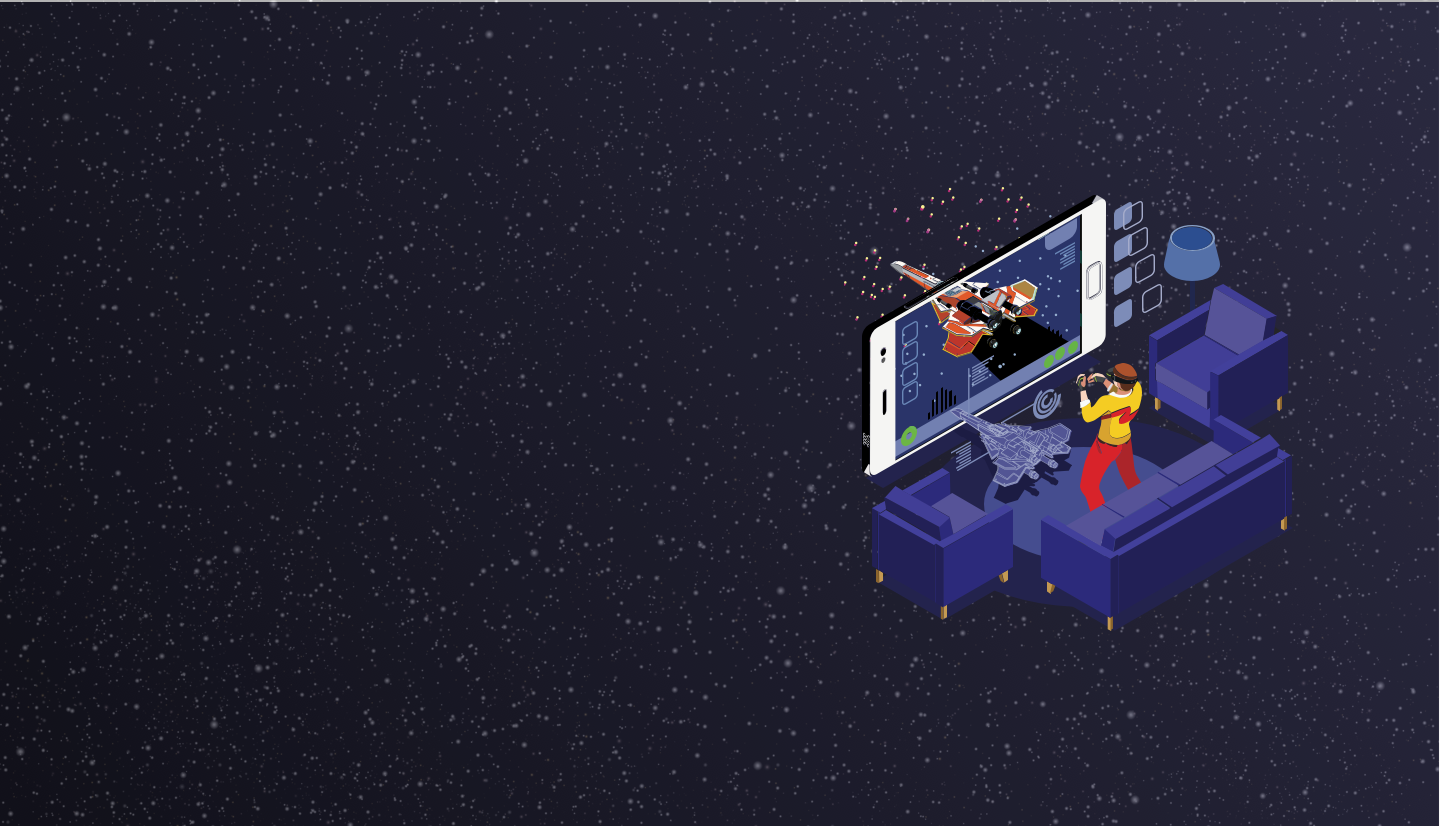
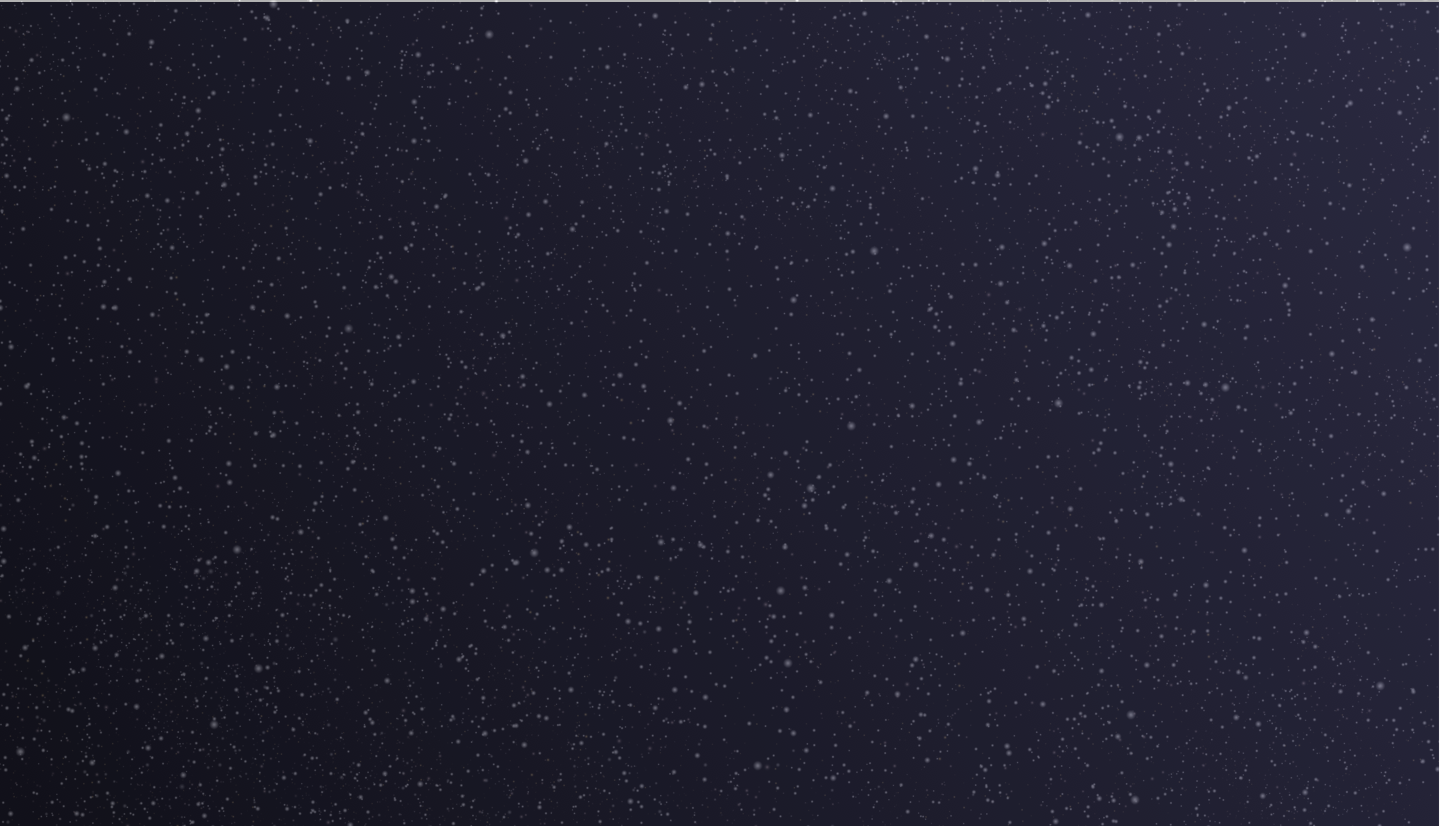
add new link and picture

Changed region(s): [[0.5938, 0.2421, 0.9062, 0.7567]]

diff --git a/ja/index.html b/ja/index.html
@@ -8,14 +8,15 @@
     <meta name="author" content="Cosmos Gaming Hub Team">
     <title>Cosmos Gaming Hub -The Decentralized Game Platform for The Next Generation-</title>
 
-		<!-- Global site tag (gtag.js) - Google Analytics -->
-    <script async src="https://www.googletagmanager.com/gtag/js?id=UA-143409531-1"></script>
-    <script>
-      window.dataLayer = window.dataLayer || [];
-      function gtag(){dataLayer.push(arguments);}
-      gtag('js', new Date());
-      gtag('config', 'UA-143409531-1');
-    </script>
+	<!-- Global site tag (gtag.js) - Google Analytics -->
+	<script async src="https://www.googletagmanager.com/gtag/js?id=UA-151138947-1"></script>
+	<script>
+		window.dataLayer = window.dataLayer || [];
+		function gtag(){dataLayer.push(arguments);}
+		gtag('js', new Date());
+
+		gtag('config', 'UA-151138947-1');
+	</script>
 
 
 	<link rel="shortcut icon" href="../img/favicon.png" type="image/x-icon">
@@ -77,7 +78,7 @@
             <a class="nav-link" href="https://whitepaper.cosmosgaminghub.com/ja" target=”_blank”><span class="no-wrap">ホワイトペーパー</span></a>
           </li>
 					<li class="nav-item">
-						<a class="nav-link" href="https://medium.com/mold-project"><span class="no-wrap">ブログ</span></a>
+						<a class="nav-link" href="https://medium.com/cosmosgaminghub"><span class="no-wrap">ブログ</span></a>
 					</li>
 					<li class="nav-item language contents">
           <ul class="nav">
@@ -109,12 +110,12 @@
 							<h1 class="animated fadeInLeft">Cosmos Gaming Hubは公平でセキュアな分散型ゲームプラットフォームです。</h1>
 							<p class="animated fadeInLeft">Cosmos Gaming Hubは、Tendermintを活用して作られるPoSベースのオリジナルブロックチェーンです。ゲーム開発者は、Cosmos Gaming Hub上でゲームを簡単に作成でき、ユーザーはデジタル資産の管理やそれらの自由で迅速な取引が可能になります。</p>
 							<a href="https://whitepaper.cosmosgaminghub.com/ja" class="btn btn-default animated fadeInLeft">ホワイトペーパー</a>
-              <a href="https://medium.com/mold-project" class="btn btn-default animated fadeInLeft">ブログ</a>
+              <a href="https://medium.com/cosmosgaminghub" class="btn btn-default animated fadeInLeft">ブログ</a>
 						</div>
 					</div>
 					<div class="col-md-6 d-none d-md-block d-lg-block">
-						<div class="hero-img animated fadeInUp tilt-img text-center">
-							<!--img src="../img/banner/2.png" alt=""-->
+						<div class="animated fadeInUp text-center">
+							<img src="../img/banner/2.png" alt="">
 						</div>
 					</div>
 				</div>
@@ -451,8 +452,8 @@
 			<div class="row">
 				<div class="col-md-12">
 					<ul class="social-media">
-						<li><a href="https://twitter.com/mold_games" target=”_blank”><i class="fa fa-twitter-square"></i></a></li>
-						<li><a href="https://medium.com/mold-project/japanese/home"><i class="fa fa-medium"></i></a></li>
+						<li><a href="https://twitter.com/cosmosgaminghub" target=”_blank”><i class="fa fa-twitter-square"></i></a></li>
+						<li><a href="https://medium.com/cosmosgaminghub/japanese/home"><i class="fa fa-medium"></i></a></li>
 						<li><a href="https://t.me/MOLD_GAMES_JP"><i class="fa fa-telegram"></i></a></li>
 						<li><a href="https://github.com/cosmos-gaminghub" target=”_blank”><i class="fa fa-github-square"></i></a></li>
 					</ul>

diff --git a/ch/index.html b/ch/index.html
@@ -8,14 +8,15 @@
     <meta name="author" content="Cosmos Gaming Hub Team">
     <title>Cosmos Gaming Hub -The Decentralized Game Platform for The Next Generation-</title>
 
-		<!-- Global site tag (gtag.js) - Google Analytics -->
-    <script async src="https://www.googletagmanager.com/gtag/js?id=UA-143409531-1"></script>
-    <script>
-      window.dataLayer = window.dataLayer || [];
-      function gtag(){dataLayer.push(arguments);}
-      gtag('js', new Date());
-      gtag('config', 'UA-143409531-1');
-    </script>
+	<!-- Global site tag (gtag.js) - Google Analytics -->
+	<script async src="https://www.googletagmanager.com/gtag/js?id=UA-151138947-1"></script>
+	<script>
+		window.dataLayer = window.dataLayer || [];
+		function gtag(){dataLayer.push(arguments);}
+		gtag('js', new Date());
+
+		gtag('config', 'UA-151138947-1');
+	</script>
 
 
 	<link rel="shortcut icon" href="../img/favicon.png" type="image/x-icon">
@@ -77,7 +78,7 @@
             <a class="nav-link" href="https://whitepaper.cosmosgaminghub.com/ch" target=”_blank”><span class="no-wrap">白皮书</span></a>
           </li>
 					<li class="nav-item">
-						<a class="nav-link" href="https://medium.com/mold-project"><span class="no-wrap">博客</span></a>
+						<a class="nav-link" href="https://medium.com/cosmosgaminghub"><span class="no-wrap">博客</span></a>
 					</li>
 					<li class="nav-item language contents">
           <ul class="nav">
@@ -107,17 +108,15 @@
 					<div class="col-md-6">
 						<div class="hero-text">
 							<h1 class="animated fadeinleft">cosmos gaming hub是公平安全的分布式游戏平台</h1>
-							<h1></br></h1>
 							<p class="animated fadeInLeft">Cosmos Gaming Hub网络是使用Tendermint并基于PoS的原始区块链。 开发人员可以在Cosmos Gaming Hub网络上轻松创建游戏，游戏将允许用户自由快速地进行交易，以管理数字资产。</p>
-								<p></br></p>
 							<p></p>
 							<a href="https://whitepaper.cosmosgaminghub.com/ch" class="btn btn-default animated fadeInLeft">白皮书</a>
-              <a href="https://medium.com/mold-project" class="btn btn-default animated fadeInLeft">博客</a>
+              <a href="https://medium.com/cosmosgaminghub" class="btn btn-default animated fadeInLeft">博客</a>
 						</div>
 					</div>
 					<div class="col-md-6 d-none d-md-block d-lg-block">
-						<div class="hero-img animated fadeInUp tilt-img text-center">
-							<!--img src="../img/banner/2.png" alt=""-->
+						<div class="animated fadeInUp text-center">
+							<img src="../img/banner/2.png" alt="">
 						</div>
 					</div>
 				</div>
@@ -456,8 +455,8 @@
 			<div class="row">
 				<div class="col-md-12">
 					<ul class="social-media">
-						<li><a href="https://twitter.com/MOLD_games_CH" target=”_blank”><i class="fa fa-twitter-square"></i></a></li>
-						<li><a href="https://medium.com/mold-project/chinese/home"><i class="fa fa-medium"></i></a></li>
+						<li><a href="https://twitter.com/cosmosgaminghub" target=”_blank”><i class="fa fa-twitter-square"></i></a></li>
+						<li><a href="https://medium.com/cosmosgaminghub/chinese/home"><i class="fa fa-medium"></i></a></li>
 						<li><a href="https://t.me/MOLDcoin"><i class="fa fa-telegram"></i></a></li>
 						<li><a href="https://github.com/cosmos-gaminghub" target=”_blank”><i class="fa fa-github-square"></i></a></li>
 					</ul>

diff --git a/index.html b/index.html
@@ -78,7 +78,7 @@
 			<a class="nav-link" href="https://whitepaper.cosmosgaminghub.com" target=”_blank”>WhitePaper</a>
           </li>
 					<li class="nav-item">
-						<a class="nav-link" href="https://medium.com/mold-project">Blog</a>
+						<a class="nav-link" href="https://medium.com/cosmosgaminghub">Blog</a>
 					</li>
 					<li class="nav-item language contents">
           <ul class="nav">
@@ -110,12 +110,12 @@
 							<h1 class="animated fadeInLeft">Cosmos Gaming Hub is a fair and secure decentralized gaming platform.</h1>
 							<p class="animated fadeInLeft">The Cosmos Gaming Hub is a PoS-based original blockchain using Tendermint. Developers can easily create games on the Cosmos Gaming Hub and the games will allow users to trade freely and quickly in addtion to managing digital assets.</p>
 							<a href="https://whitepaper.cosmosgaminghub.com" class="btn btn-default animated fadeInLeft">Whitepaper</a>
-              <a href="https://medium.com/mold-project" class="btn btn-default animated fadeInLeft">Blog</a>
+              <a href="https://medium.com/cosmosgaminghub" class="btn btn-default animated fadeInLeft">Blog</a>
 						</div>
 					</div>
 					<div class="col-md-6 d-none d-md-block d-lg-block">
-						<div class="hero-img animated fadeInUp tilt-img text-center">
-							<!--img src="img/banner/2.png" alt=""-->
+						<div class="animated fadeInUp text-center">
+							<img src="img/banner/2.png" alt="">
 						</div>
 					</div>
 				</div>
@@ -455,8 +455,8 @@ Through more than 20 years investment fund management experience and more than 1
 			<div class="row">
 				<div class="col-md-12">
 					<ul class="social-media">
-						<li><a href="https://twitter.com/MOLD_games_EN" target=”_blank”><i class="fa fa-twitter-square"></i></a></li>
-						<li><a href="https://medium.com/mold-project/english/home"><i class="fa fa-medium"></i></a></li>
+						<li><a href="https://twitter.com/cosmosgaminghub" target=”_blank”><i class="fa fa-twitter-square"></i></a></li>
+						<li><a href="https://medium.com/cosmosgaminghub/english/home"><i class="fa fa-medium"></i></a></li>
 						<li><a href="https://t.me/MOLD_EN"><i class="fa fa-telegram"></i></a></li>
 						<li><a href="https://github.com/cosmos-gaminghub" target=”_blank”><i class="fa fa-github-square"></i></a></li>
 					</ul>
